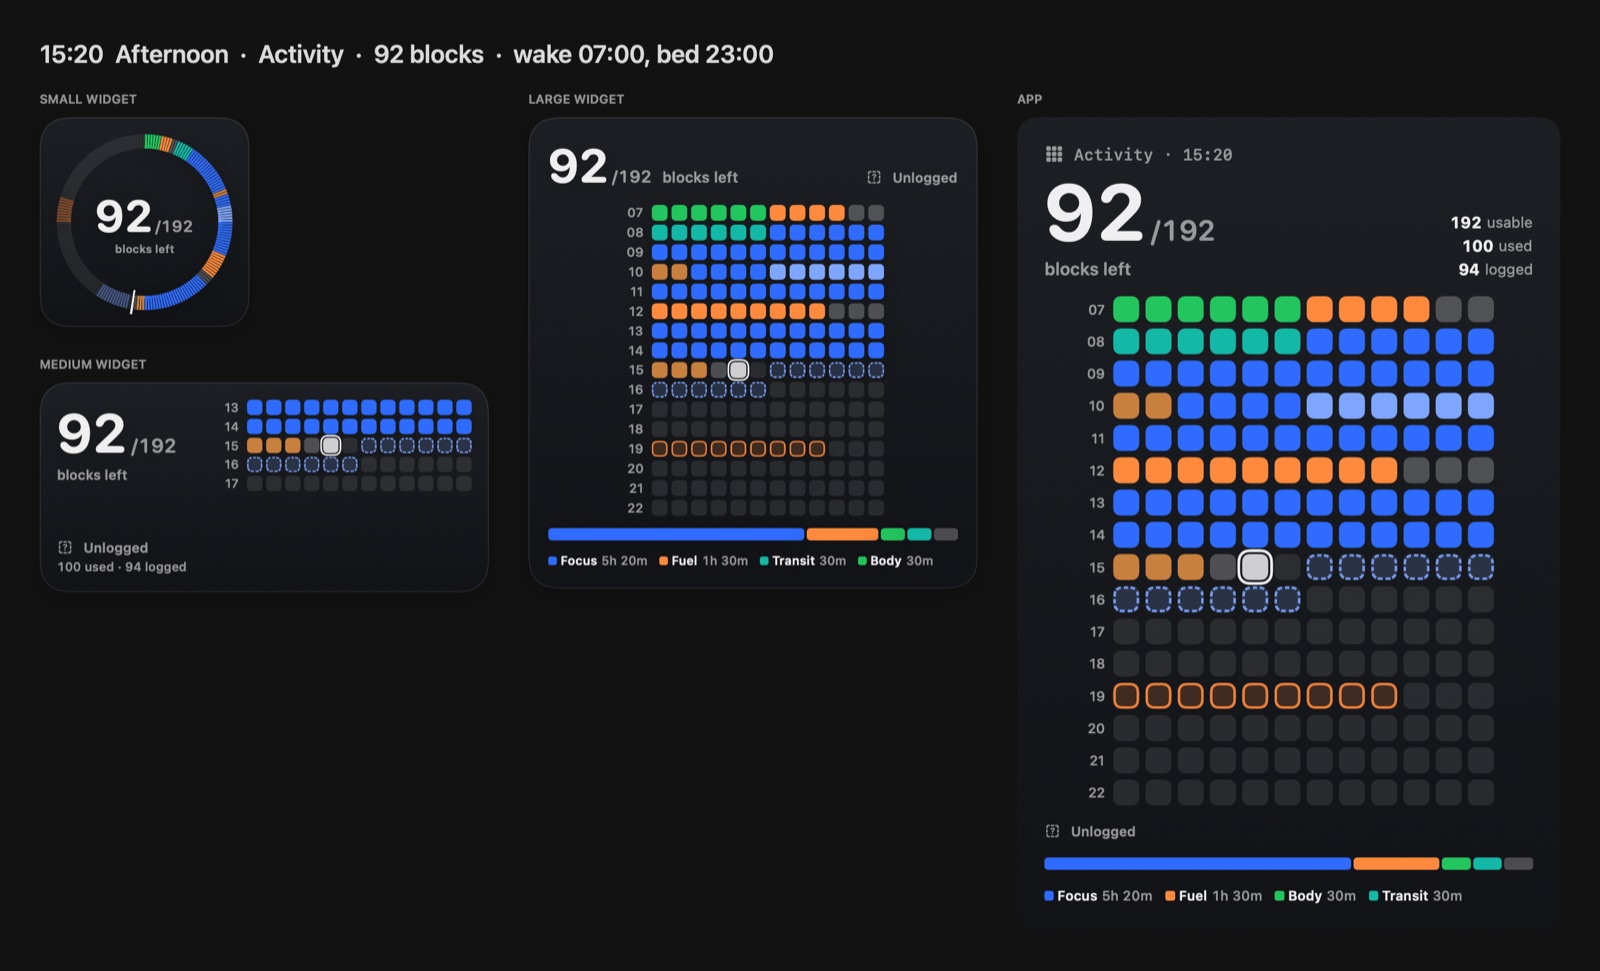
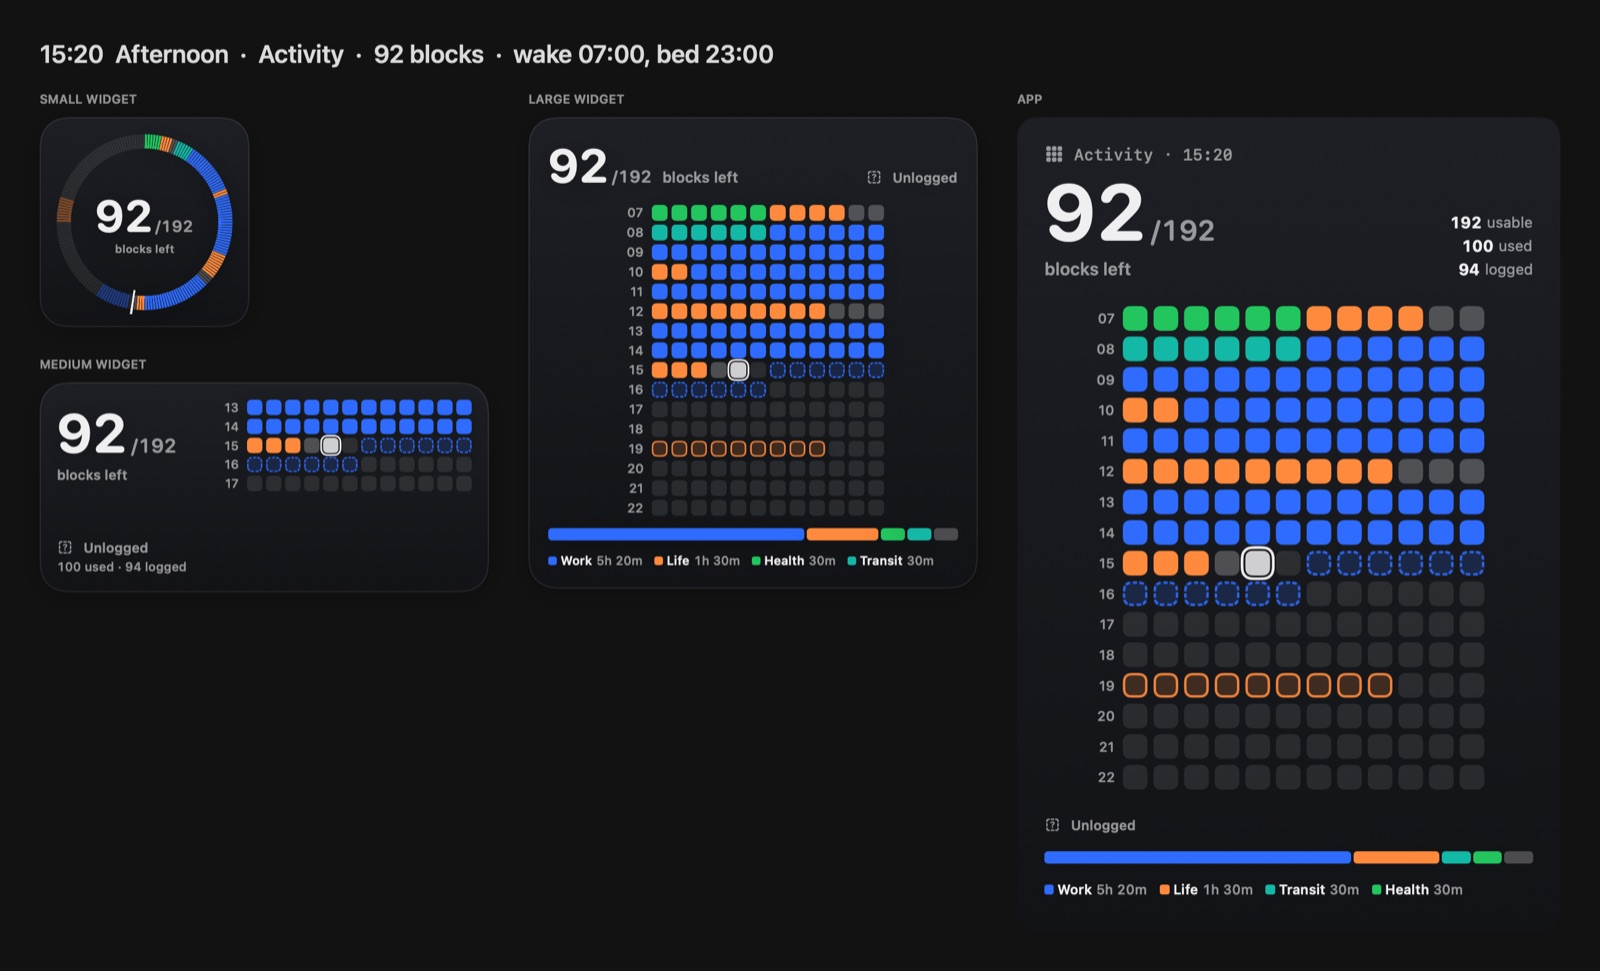
Document notes and the activity library
Refresh the afternoon and late-night screenshots with the new group names.

diff --git a/PLAN.md b/PLAN.md
@@ -70,15 +70,16 @@ Later: iOS app (the Watch's companion + iPhone widgets), watchOS app + complicat
 
 ### 3.2 Logging
 - The window's grid starts in a look‑only state: hovering a block shows its time and contents, and outlines the
-  whole run it belongs to (one category, or one unlogged gap) with its range and length.
-- **Select, then pick:** click selects a run, double‑click a single block, drag an exact range. Clicking a category
-  chip logs the selection (Clear empties it) and keeps it selected; the chip of the selection's category is lit.
+  whole run it belongs to (one activity, or one unlogged gap) with its range and length.
+- **Select, then pick:** click selects a run, double‑click a single block, drag an exact range. Clicking an activity
+  chip logs the selection (Clear empties it) and keeps it selected; the chip of the selection's activity is lit.
   Clicking off the blocks deselects.
 - **Pick, then paint:** with nothing selected, a chip becomes a one‑shot brush: drag across blocks to log them, and
   the brush is put down afterwards.
-- Painting splits the runs it covers and joins neighbours of the same category; each view (track) is edited apart.
-- Menu bar: shows the counter; click → "Now: [category chips]" logs the current block (and optionally back‑fills unlogged blocks since the last log).
-- Optional note per block range ("Wrote PLAN.md").
+- Painting splits the runs it covers and joins neighbours of the same activity; each view (track) is edited apart.
+- Menu bar: shows the counter; click → "Now: [starred activities, search]" logs the current block (and optionally back‑fills unlogged blocks since the last log).
+- Optional note per block range ("Wrote PLAN.md"): written on the selected logged blocks, shown on hover. A noted
+  stretch is its own run; giving a whole run another activity keeps its note.
 - Optional nudge notification: "3 blocks unlogged — what were you doing?"
 
 ### 3.2a Smart suggestions for unlogged blocks
@@ -94,20 +95,30 @@ Signals, all processed on‑device:
 - Suggestions are never auto‑committed; grey + hint until confirmed.
 - Note: Macs have no GPS, so location‑based hints really arrive with the iPhone/Watch app; the Mac uses activity signals instead.
 
-### 3.3 Categories & colors
-Colors carry meaning, so a day reads as a story at a glance. Every category belongs to a **group**; the group owns the hue, categories are shades within it.
-| Group | Hue | Default categories |
+### 3.3 Activities, groups & colors
+Log as finely as you like; read the day by group. A built-in library of ~170 detailed **activities** (Breakfast,
+Lunch, Email, Gym, Metro…) each belongs to a **group**, and every activity in a group shares the group's color, so
+a day still reads as a story at a glance. Groups follow how time-use research (the American Time Use Survey) and
+time-logging coaches split a day, with plain names:
+| Group | Hue | Examples |
 |---|---|---|
-| Focus | blue | Work, Meeting (lighter), Study |
-| Fuel | orange | Meal, Coffee (brown) |
-| Body | green | Exercise, Outdoor |
-| People | pink | Social, Family |
-| Transit | teal | Commute |
-| Recharge | yellow | Rest, Nap |
-| Drift | muted plum | Screen time, Doomscroll |
-- Bright = intentional, muted = time that just happened. Grey = unlogged, red = taken from sleep.
-- Summaries (legend, story bar) report time per **group** ("Focus 7h 50m"), not per category.
-- User‑defined categories pick a group, then optionally a shade, name and SF Symbol.
+| Work | blue | Work, Deep work, Meeting, Email, Coding, Paperwork |
+| Learn | purple | Study, Reading, Class, Language, Journaling |
+| Health | green | Exercise, Gym, Walk, Outdoors, Yoga, Doctor |
+| People | pink | Friends, Family, Partner, Kids, Call, Party |
+| Life | orange | Breakfast, Lunch, Dinner, Coffee, Cooking, Chores, Shower, Errands |
+| Transit | teal | Commute, Driving, Bus, Metro, Flight |
+| Leisure | yellow | Rest, Nap, TV and shows, Gaming, Hobby, Café |
+| Drift | muted plum | Doomscroll, Social media, Videos, Procrastinating |
+- Grey = unlogged, red = taken from sleep. Leisure is rest you chose; Drift is time that slipped away.
+- **Starred** activities make up the palette, in order; common ones are starred out of the box. A search field
+  above it finds any other by name, by other words ("meal" finds Lunch, "slack" finds Work chat) or by group;
+  Return logs the best match. Right-click a chip, or use Settings, to star or unstar.
+- Summaries (legend, story bar) report time per **group** ("Life 2h 10m"), not per activity.
+- Your own activities pick a name, group and SF Symbol. The Body view keeps its five postures, each its own color.
+- Built-in activities are **retired** rather than removed (so far Meal, replaced by Breakfast/Lunch/Dinner/Snack,
+  and the vague Screen time): blocks already logged keep their name and color, but they leave search, the
+  library and the palette. Ids of built-ins never change, since logs refer to them.
 
 ### 3.4 Pre‑logging
 - **Recurring templates:** "Breakfast 08:00, 6 blocks, every day", "Coffee 15:00, 2 blocks, weekdays".
@@ -140,7 +151,7 @@ or the menu bar panel; each widget picks its own view in its Edit sheet, so an A
 
 | View | Statuses | Colors | Headline |
 |---|---|---|---|
-| Activity | categories in groups (§3.3) | hue per group | time per group |
+| Activity | activities in groups (§3.3) | hue per group | time per group |
 | Body | Lying, Sitting, Standing, Walking, Exercising | cool → warm: the more you move, the warmer | longest unbroken sit |
 
 - Horror mode, the counter and the bedtime line are the same in every view; only block colors and the summary change.
@@ -157,7 +168,8 @@ or the menu bar panel; each widget picks its own view in its Edit sheet, so an A
 ## 4. Data model (TimeBlockKit)
 
 ```swift
-Category      id, name, track(.activity|.body), group? (activity only), colorHex, symbol, sortOrder, isArchived
+Category      id, name, track(.activity|.body), group? (activity only; sets the color), color, symbol, keywords
+              (built-ins live in code; AppSettings keeps favorites (palette order) and customCategories)
 DayLog        day ("2026-10-24", the wake date), wakeMinute, logs: one JSON file per day
 BlockLog      id, startIndex, length, categoryID, note, source(.manual|.template|.calendar)
               (indexes count from DayLog.wakeMinute and move with wake time; track comes from the category;
@@ -178,7 +190,7 @@ Block math (pure functions, fully unit‑tested): `blockIndex(for: Date)`, `awak
 | M0 | **Visual prototype** | SwiftUI preview of the grid in normal + horror states; we agree on the look | ✅ done |
 | M1 | **Mac app + read‑only widget** | widget shows live grid & counter, updates every 5 min; schedule set in app | 🟡 built; widget uses the default schedule until signed with a team (§2) |
 | — | **Views: Activity / Body** (§3.6a) | switch views in window, menu bar and per widget | ✅ done |
-| M2 | **Logging + categories** | paint blocks in app, log from menu bar, colors in widget; logs per view | 🟡 select/paint logging in the window, menu bar "Now" logging and saving done; custom categories, notes and the unlogged nudge left; widget sees logs once signed with a team |
+| M2 | **Logging + activities** | paint blocks in app, log from menu bar, colors in widget; logs per view | 🟡 select/paint logging, notes, activity library with search and stars, own activities, menu bar "Now" logging and saving done; the unlogged nudge left; widget sees logs once signed with a team |
 | M3 | **Pre‑log templates** | recurring meals/coffee appear as hollow future blocks | |
 | M4 | **Horror mode** | negative counter + escalation levels in widget and app | 🟡 visuals done in M0; notifications and "tomorrow's debt" left |
 | M5 | **Sleep‑shift plan** | stepped bedtime schedule drives the grid | |

diff --git a/README.md b/README.md
@@ -10,8 +10,9 @@ whole UI slowly turns into a horror show.
 
 - **1 block = 5 minutes.** Rows are clock hours of 12 blocks; only your waking hours are shown.
 - **Counter:** blocks left over the day's usable total (`92/192`). It goes negative after bedtime.
-- **Colors tell the story:** Activity groups (focus, fuel, people…) each own a hue; bright means intentional,
-  muted means drift. Grey is unlogged, red is taken from sleep.
+- **Colors tell the story:** log detailed activities (Breakfast, Email, Gym…); each belongs to a group (Work,
+  Learn, Health, People, Life, Transit, Leisure, Drift) and takes its color. Grey is unlogged, red is taken
+  from sleep.
 - **Views:** switch between Activity and Body (lying, sitting, standing, walking, exercising). Each view is its
   own track of logs, so a block can be *Meeting* and *Standing* at once.
 
@@ -20,7 +21,7 @@ See [PLAN.md](PLAN.md) for the full design, decisions and milestones.
 ## Status
 
 Built: Mac app window with settings in a side panel (gear button or ⌘,), menu bar extra, and a WidgetKit widget
-in three sizes. Logs are saved one file per day. Custom categories and notes come next; see the milestones in
+in three sizes. Logs are saved one file per day. Next up is a nudge for unlogged time; see the milestones in
 PLAN.md.
 
 ### Logging
@@ -28,11 +29,18 @@ PLAN.md.
 - **Hover** a block to see its time and what it holds. A logged stretch (or an unlogged gap) is outlined as a whole,
   with its range: `18:20–19:25 · Social · 1h 5m`.
 - **Select, then pick:** click a block to select its whole stretch, double‑click to select just that block, or
-  drag to select exactly what you cover. Click a category under the grid to log the selection, or Clear to empty
-  it. The selection stays, and its category stays lit, until you click off the blocks.
-- **Pick, then paint:** with nothing selected, click a category and drag across blocks. The category is put down
-  after one drag, so a stray click never logs anything.
+  drag to select exactly what you cover. Click an activity under the grid to log the selection, or Clear to empty
+  it. The selection stays, and its activity stays lit, until you click off the blocks.
+- **Pick, then paint:** with nothing selected, click an activity and drag across blocks. It is put down after one
+  drag, so a stray click never logs anything.
+- **Find any activity:** the chips are your starred activities. Type in the search field above them to find any of
+  the ~170 built in (`meal` finds Breakfast, Lunch, Dinner…); Return picks the top match. Right‑click a chip to
+  star or unstar it.
+- **Notes:** with logged blocks selected, type a note under the activities (`Dinner with Ana`). It shows when you
+  hover them, and a noted stretch is selected and outlined on its own.
 - **Menu bar:** one click logs the block in progress, optionally filling the unlogged gap before it.
+- **Settings:** reorder starred activities, browse the whole library by group to star more, or add your own
+  with a name, group and icon.
 
 ## Layout
 
